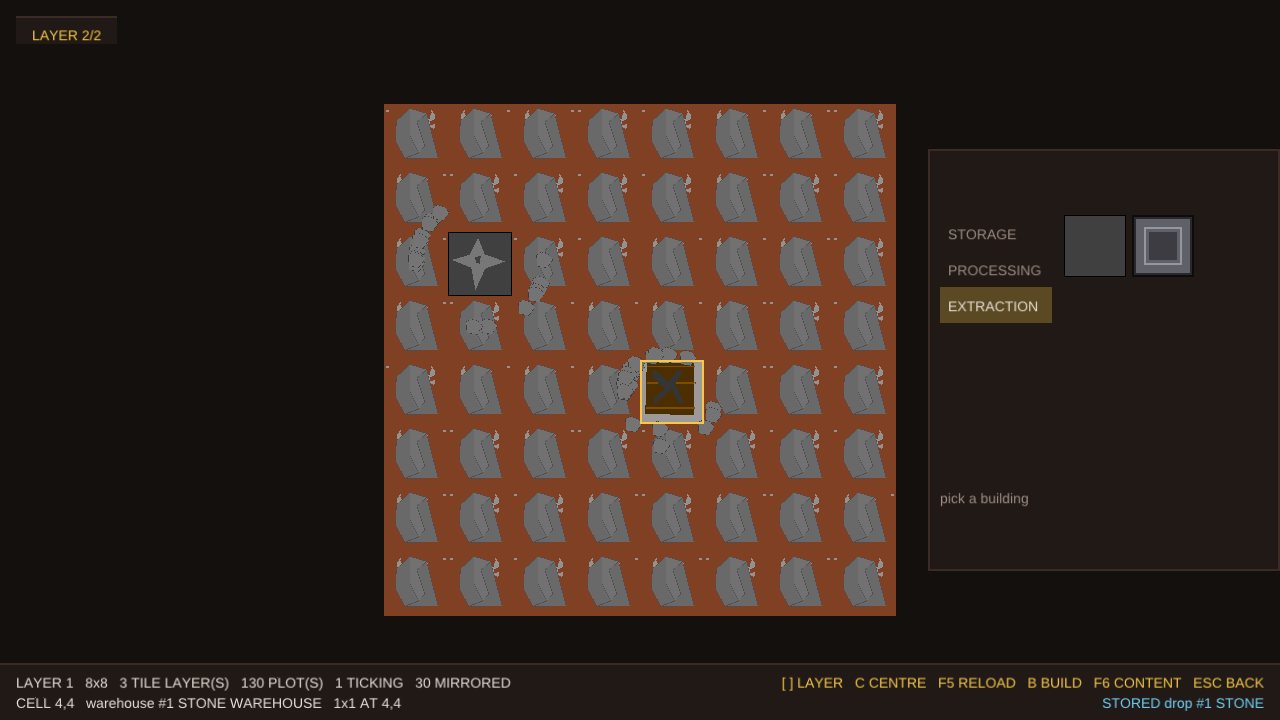
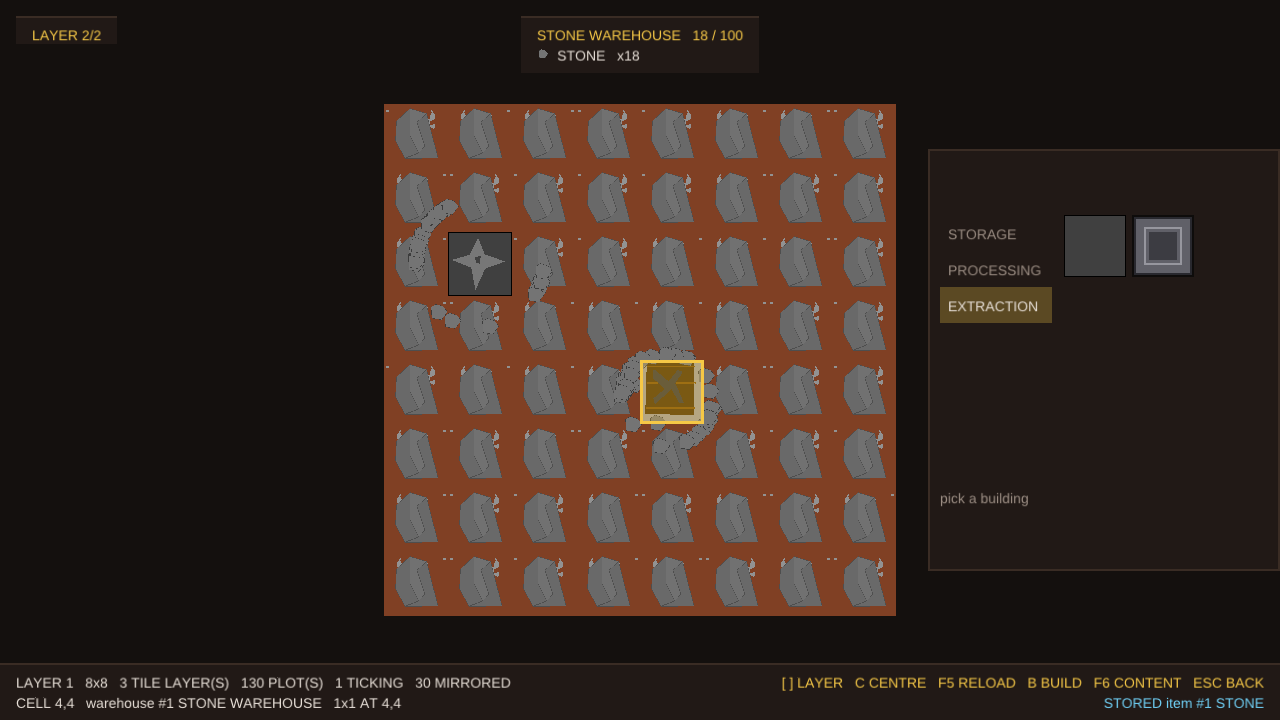
a drop is made out of the item its ore drops: same name, same picture, same id, and no drop table

diff --git a/tile2d/games/mine/tests/test_content_pack.cpp b/tile2d/games/mine/tests/test_content_pack.cpp
@@ -470,9 +470,9 @@ T2D_TEST(the_games_own_content_is_a_pack_that_ships_its_own_art) {
     T2D_CHECK_MSG(report.clean(), "{}", report.first_error());
     T2D_CHECK_EQ(report.base_packs, 1u);
     // One picture per content entry, in the order the pack's files are read - which is sorted, so
-    // drops.ecfg comes first, then drills, floors, items, ores and warehouses. A drill has **two**
+    // drills.ecfg comes first, then floors, items, ores and warehouses. A drill has **two**
     // pictures (docs/GAME_DESIGN.md section 1.38), and they come out next to each other, base then top.
-    T2D_REQUIRE(report.images.size() == 7u);
+    T2D_REQUIRE(report.images.size() == 6u);
     T2D_CHECK(report.images[0].ok);
     T2D_CHECK_EQ(report.images[0].kind, ContentKind::Drill);
     T2D_CHECK_EQ(report.images[0].content, std::string("stone"));
@@ -480,23 +480,12 @@ T2D_TEST(the_games_own_content_is_a_pack_that_ships_its_own_art) {
     T2D_CHECK(report.images[0].resolved.find("drill_stone_drill_base.png") != std::string::npos);
     T2D_CHECK_EQ(report.images[1].part, std::string("top"));   // and the top is the second
     T2D_CHECK(report.images[1].resolved.find("drill_stone_drill_top.png") != std::string::npos);
-    T2D_CHECK_EQ(report.images[2].kind, ContentKind::Drop);   // what the ore throws out (1.25)
-    T2D_CHECK_EQ(report.images[2].content, std::string("stone"));
-    T2D_CHECK(report.images[2].resolved.find("item_stone.png") != std::string::npos);
-    T2D_CHECK_EQ(report.images[3].kind, ContentKind::Floor);
-    T2D_CHECK_EQ(report.images[3].content, std::string("dirt"));
-    T2D_CHECK(report.images[3].resolved.find("floor_dirt.png") != std::string::npos);
-    T2D_CHECK_EQ(report.base_images, 7u);
-    T2D_CHECK_EQ(registry.count(ContentKind::Floor), 1u);
-    T2D_CHECK(registry.find(ContentKind::Floor, "dirt") != kNoContent);
-    // The item the designer asked for (docs/GAME_DESIGN.md section 1.23), with the picture the designer
-    // gave it. It is registered as an item and its definition is kept, because something that has to be
-    // shown needs more than a name - and it is **not** a plot: the lookup by kind cannot hand it out.
-    T2D_CHECK_EQ(registry.count(ContentKind::Item), 1u);
-    T2D_CHECK(registry.find(ContentKind::Item, "stone") != kNoContent);
-    T2D_CHECK_EQ(report.images[4].kind, ContentKind::Item);
-    T2D_CHECK_EQ(report.images[4].content, std::string("stone"));
-    T2D_CHECK(report.images[4].resolved.find("item_stone.png") != std::string::npos);
+    T2D_CHECK_EQ(report.images[2].kind, ContentKind::Floor);
+    T2D_CHECK_EQ(report.images[2].content, std::string("dirt"));
+    T2D_CHECK(report.images[2].resolved.find("floor_dirt.png") != std::string::npos);
+    T2D_CHECK_EQ(report.images[3].kind, ContentKind::Item);
+    T2D_CHECK_EQ(report.images[3].content, std::string("stone"));
+    T2D_CHECK(report.images[3].resolved.find("item_stone.png") != std::string::npos);
     T2D_REQUIRE(report.definitions.item_count() == 1u);
     T2D_REQUIRE(report.definitions.find_item("stone") != nullptr);
     T2D_CHECK_EQ(report.definitions.find_item("stone")->image, std::string("art/item_stone.png"));
@@ -506,22 +495,24 @@ T2D_TEST(the_games_own_content_is_a_pack_that_ships_its_own_art) {
     // item share the name "stone" and that is not a clash: ids are handed out per kind.
     T2D_CHECK_EQ(registry.count(ContentKind::Ore), 1u);
     T2D_CHECK(registry.find(ContentKind::Ore, "stone") != kNoContent);
-    T2D_CHECK_EQ(report.images[5].kind, ContentKind::Ore);
-    T2D_CHECK_EQ(report.images[5].content, std::string("stone"));
-    T2D_CHECK(report.images[5].resolved.find("ore_stone.png") != std::string::npos);
+    T2D_CHECK_EQ(report.images[4].kind, ContentKind::Ore);
+    T2D_CHECK_EQ(report.images[4].content, std::string("stone"));
+    T2D_CHECK(report.images[4].resolved.find("ore_stone.png") != std::string::npos);
     // The two numbers that make a drill mine: the ore's hardness and what it drops (§1.26).
     const types::TileDefinition& vein = *report.definitions.find_tile(ContentKind::Ore, "stone");
     T2D_CHECK_EQ(vein.hardness, 1.0f);
     T2D_CHECK_EQ(vein.drop, std::string("stone"));
-    T2D_CHECK(registry.find(ContentKind::Drop, vein.drop) != kNoContent);   // and the drop is there
+    // What it drops is an **item**, and the thing that lands on the ground is made out of it: there is
+    // no drop:: entry to look for (sections 1.23, 1.25).
+    T2D_CHECK(registry.find(ContentKind::Item, vein.drop) != kNoContent);
     // The warehouse the designer asked for (docs/GAME_DESIGN.md section 1.28), with the picture the
     // designer put into the pack themselves: it is a plot - scenery that holds things - and the one
     // number its entry carries is its capacity.
     T2D_CHECK_EQ(registry.count(ContentKind::Warehouse), 1u);
     T2D_CHECK(registry.find(ContentKind::Warehouse, "stone") != kNoContent);
-    T2D_CHECK_EQ(report.images[6].kind, ContentKind::Warehouse);
-    T2D_CHECK_EQ(report.images[6].content, std::string("stone"));
-    T2D_CHECK(report.images[6].resolved.find("capacity_stone_warehouse.png") != std::string::npos);
+    T2D_CHECK_EQ(report.images[5].kind, ContentKind::Warehouse);
+    T2D_CHECK_EQ(report.images[5].content, std::string("stone"));
+    T2D_CHECK(report.images[5].resolved.find("capacity_stone_warehouse.png") != std::string::npos);
     T2D_REQUIRE(report.definitions.find_tile(ContentKind::Warehouse, "stone") != nullptr);
     T2D_CHECK_EQ(report.definitions.find_tile(ContentKind::Warehouse, "stone")->capacity, 100u);
     // The drill the designer asked for ("创建石头钻头，挖掘能力为1,材料10石头"): digging power 1, a base

diff --git a/tile2d/games/mine/tests/test_drills.cpp b/tile2d/games/mine/tests/test_drills.cpp
@@ -54,10 +54,12 @@ struct Fixture {
         return id;
     }
 
-    ContentId add_drop(std::string_view name) {
-        const ContentId id = registry.register_content(ContentKind::Drop, name);
-        DropDefinition definition;
-        definition.kind = ContentKind::Drop;
+    /// What an ore drops is an **item** (docs/GAME_DESIGN.md sections 1.23, 1.25): the thing that lands on
+    /// the ground is made out of it, so this registers the item and nothing else.
+    ContentId add_item(std::string_view name) {
+        const ContentId id = registry.register_content(ContentKind::Item, name);
+        TileDefinition definition;
+        definition.kind = ContentKind::Item;
         definition.name = std::string(name);
         definitions.add(std::move(definition));
         return id;
@@ -82,7 +84,7 @@ struct Rig {
     ContentId chunk = kNoContent;
 
     Rig(f32 hardness, f32 power, std::string drop_name) {
-        chunk = fixture.add_drop("chunk");
+        chunk = fixture.add_item("chunk");
         fixture.add_floor("dirt");
         fixture.add_ore("vein", hardness, std::move(drop_name));
         fixture.add_drill("rig", power);
@@ -141,7 +143,9 @@ T2D_TEST(a_drill_is_an_entity_plot_that_mines_what_is_under_it) {
     T2D_REQUIRE(rig.layer.entity_count() == 1u);
     T2D_CHECK_EQ(rig.drill->produced(), 1u);
     const Entity& first = *rig.layer.entities()[0];
-    T2D_CHECK_EQ(first.kind(), ContentKind::Drop);
+    // The thing on the ground **is** the item its ore drops: same id, same name, same picture
+    // (sections 1.23, 1.25) - which is why carrying it into a warehouse stores the item.
+    T2D_CHECK_EQ(first.kind(), ContentKind::Item);
     T2D_CHECK_EQ(first.id(), rig.chunk);
     T2D_CHECK(first.draggable());   // what it throws out is a drop: the pointer can drag it (types/drop.h)
     // It lands **one cell away at a random angle**: anywhere on the circle around the drill's middle, not
@@ -215,7 +219,7 @@ T2D_TEST(a_drill_with_nothing_to_mine_is_reported_and_idle) {
         fixture.add_floor("dirt");
         fixture.add_ore("vein", 2.0f, "chunk");
         fixture.add_drill("rig", 1.0f);
-        fixture.add_drop("chunk");
+        fixture.add_item("chunk");
         MineLayer layer(0, LayerShape{16, 16, 3}, 1);
         LayerBuildReport report;
         (void)layer.place(fixture.registry, fixture.definitions, at(ContentKind::Floor, "dirt", 0, 4, 4), &report);
@@ -236,7 +240,7 @@ T2D_TEST(a_drill_with_nothing_to_mine_is_reported_and_idle) {
         fixture.add_floor("dirt");
         fixture.add_ore("vein", hardness, std::move(drop_name));
         fixture.add_drill("rig", power);
-        if (power > 0.0f) fixture.add_drop("chunk");
+        if (power > 0.0f) fixture.add_item("chunk");
         MineLayer layer(0, LayerShape{16, 16, 3}, 1);
         LayerBuildReport report;
         (void)layer.place(fixture.registry, fixture.definitions, at(ContentKind::Floor, "dirt", 0, 4, 4), &report);
@@ -250,7 +254,7 @@ T2D_TEST(a_drill_with_nothing_to_mine_is_reported_and_idle) {
     };
     T2D_CHECK(refuses(0.0f, "chunk", 1.0f, "says nothing about its hardness"));
     T2D_CHECK(refuses(2.0f, "", 1.0f, "says nothing about what it drops"));
-    T2D_CHECK(refuses(2.0f, "nothing_like_that", 1.0f, "no drop named 'nothing_like_that' is registered"));
+    T2D_CHECK(refuses(2.0f, "nothing_like_that", 1.0f, "no item named 'nothing_like_that' is registered"));
     // A drill with no power: the ore is fine, the machine is not.
     {
         Fixture fixture;
@@ -316,7 +320,7 @@ T2D_TEST(the_debug_fill_puts_a_drill_on_a_cell_that_has_ore) {
     fixture.add_floor("dirt");
     fixture.add_ore("vein", 2.0f, "chunk");
     fixture.add_drill("rig", 1.0f);
-    fixture.add_drop("chunk");
+    fixture.add_item("chunk");
     MineLayer layer(0, LayerShape{24, 16, 3}, 1);
     LayerBuildReport report;
     (void)layer.place(fixture.registry, fixture.definitions, at(ContentKind::Floor, "dirt", 0, 5, 5), &report);

diff --git a/tile2d/games/mine/src/build_cost.cpp b/tile2d/games/mine/src/build_cost.cpp
@@ -6,24 +6,13 @@ namespace mine {
 
 namespace {
 
-/// What a price is paid in: the **item** of that name and any **drop** of that name.
-///
-/// A drop is what an ore throws out and an item is what a machine makes, a recipe moves and a demand asks
-/// for (docs/GAME_DESIGN.md sections 1.23, 1.25) - and a stone lying on the ground and a stone in a box are
-/// the same stone. A player who dragged a drill's output into the warehouse **has** stone, so a price that
-/// only counted items would tell them they have none: which is exactly the report "the warehouse clearly has
-/// stone in it and it still says stone 0/10". Both kinds are counted, and both are spent.
-constexpr ContentKind kPays[] = {ContentKind::Item, ContentKind::Drop};
-
-/// How much of \p name the stock holds, over both kinds that count as paying for it.
+/// How much of \p name the stock holds. It is an **item** and nothing else: the drop lying on the ground
+/// is made out of the item its ore drops (types/drill.cpp), so a stone carried into a warehouse is the
+/// stone item, and a price counts items (docs/GAME_DESIGN.md sections 1.23, 1.25).
 [[nodiscard]] usize held(const types::Container& stock, const ContentRegistry& registry,
                          std::string_view name) {
-    usize have = 0;
-    for (const ContentKind kind : kPays) {
-        const ContentId id = registry.find(kind, name);
-        if (id != kNoContent) have += stock.count_of(kind, id);
-    }
-    return have;
+    const ContentId id = registry.find(ContentKind::Item, name);
+    return id == kNoContent ? 0 : stock.count_of(ContentKind::Item, id);
 }
 
 } // namespace
@@ -46,14 +35,9 @@ bool can_afford(const types::Container& stock, const ContentRegistry& registry,
 void pay_for(types::Container& stock, const ContentRegistry& registry,
              const std::vector<ContentStack>& materials) {
     for (const ContentStack& stack : materials) {
-        usize left = static_cast<usize>(stack.count);
-        for (const ContentKind kind : kPays) {
-            const ContentId id = registry.find(kind, stack.name);
-            if (id == kNoContent || left == 0) continue;
-            // Items first, then drops: what a machine made goes into the machine before what was picked up
-            // off the floor. can_afford() said the two together are enough, so this cannot come up short.
-            left -= stock.take(kind, id, left);
-        }
+        const ContentId id = registry.find(ContentKind::Item, stack.name);
+        if (id == kNoContent) continue;   // can_afford() would have said no; paying nothing is the safe half
+        (void)stock.take(ContentKind::Item, id, static_cast<usize>(stack.count));
     }
 }
 

diff --git a/tile2d/games/mine/tests/test_world.cpp b/tile2d/games/mine/tests/test_world.cpp
@@ -688,43 +688,5 @@ T2D_TEST(paying_for_a_build_that_cannot_be_paid_for_leaves_the_stock_alone) {
 }
 
 
-T2D_TEST(stone_on_the_ground_pays_for_a_building_like_stone_in_a_box) {
-    // A drill's output dragged into a warehouse is stored as a **drop** - the thing that was lying on the
-    // ground - and an item is what a machine makes (docs/GAME_DESIGN.md sections 1.23, 1.25). A price that
-    // only counted items told the player they had none: "the warehouse clearly has stone in it and it still
-    // says stone 0/10". Both kinds pay, and both are spent.
-    Fixture content;
-    content.add(ContentKind::Warehouse, "bin", /*random_reverse=*/false, /*capacity=*/16);
-    content.add(ContentKind::Item, "stone");
-    content.add(ContentKind::Drop, "stone");
-    const ContentId bin = content.registry.find(ContentKind::Warehouse, "bin");
-    const ContentId drop = content.registry.find(ContentKind::Drop, "stone");
-    T2D_REQUIRE(drop != kNoContent);
-    const TileDefinition* definition = content.definitions.find_tile(ContentKind::Warehouse, "bin");
-    T2D_REQUIRE(definition != nullptr);
-    const std::unique_ptr<SceneTile> plot = make_tile(*definition, bin, 1, GridPos{0, 0});
-    T2D_REQUIRE(plot != nullptr && plot->container() != nullptr);
-    types::Container& stock = *plot->container();
-    T2D_REQUIRE(stock.add(ContentKind::Drop, drop, 10) == 10u);
-
-    const std::vector<ContentStack> price{{std::string("stone"), 10}};
-    std::string missing;
-    T2D_CHECK(can_afford(stock, content.registry, price, &missing));
-    pay_for(stock, content.registry, price);
-    T2D_CHECK_EQ(stock.count_of(ContentKind::Drop, drop), 0u);
-    T2D_CHECK_EQ(stock.total(), 0u);
-    T2D_CHECK_FALSE(can_afford(stock, content.registry, price, &missing));
-    T2D_CHECK_MSG(missing.find("stone") != std::string::npos, "{}", missing);
-
-    // Half and half works too: five items and five drops are ten stone, and the items go first.
-    const ContentId item = content.registry.find(ContentKind::Item, "stone");
-    T2D_REQUIRE(stock.add(ContentKind::Item, item, 5) == 5u);
-    T2D_REQUIRE(stock.add(ContentKind::Drop, drop, 5) == 5u);
-    T2D_CHECK(can_afford(stock, content.registry, price, &missing));
-    pay_for(stock, content.registry, price);
-    T2D_CHECK_EQ(stock.count_of(ContentKind::Item, item), 0u);
-    T2D_CHECK_EQ(stock.count_of(ContentKind::Drop, drop), 0u);
-}
-
 T2D_TEST_MAIN
 

diff --git a/tile2d/games/mine/src/world.cpp b/tile2d/games/mine/src/world.cpp
@@ -174,9 +174,12 @@ void MineLayer::configure_drill(types::Drill& drill, const ContentRegistry& regi
                            ore_name, what));
         return;
     }
-    const ContentId drop = registry.find(ContentKind::Drop, definition->drop);
+    // What it drops is an **item** (docs/GAME_DESIGN.md sections 1.23, 1.25): the thing that lands on the
+    // ground is **made out of that item** - same name, same picture, same id - rather than declared a
+    // second time in a table of its own. A drop:: table is not what says what a thing is; the item is.
+    const ContentId drop = registry.find(ContentKind::Item, definition->drop);
     if (drop == kNoContent) {
-        refuse(std::format("layer {}: the ore '{}' under {} drops '{}', and no drop named '{}' is registered",
+        refuse(std::format("layer {}: the ore '{}' under {} drops '{}', and no item named '{}' is registered",
                            index_, ore_name, what, definition->drop, definition->drop));
         return;
     }

diff --git a/tile2d/games/mine/src/app.cpp b/tile2d/games/mine/src/app.cpp
@@ -1263,9 +1263,11 @@ const types::SceneTile* MineApp::selected_plot() const {
 void MineApp::select_at(GridPos cell) {
     const types::SceneTile* plot = world_.layer().top_plot_at(cell);
     if (plot == nullptr || plot->container() == nullptr) {
-        // A double click on scenery, or on ground, selects nothing: there is nothing to show, and a panel
-        // that stayed up would be describing something else (types/click.h's rule, said again).
-        clear_selection();
+        // A double click on scenery, or on ground, selects nothing - and it does **not** put down what is
+        // selected either: the designer asked for the selection to stay when the pointer looks elsewhere,
+        // and the way to put a plot down is to double click **it** (docs/GAME_DESIGN.md section 1.31).
+        // Clearing here would make a stray double click on the floor lose the warehouse the player is
+        // building out of.
         return;
     }
     selected_cell_ = cell;

diff --git a/tile2d/games/mine/src/types/drill.cpp b/tile2d/games/mine/src/types/drill.cpp
@@ -85,7 +85,10 @@ void Drill::throw_one() {
         t2d::clamp(static_cast<f32>(anchor().y) + 0.5f + std::sin(angle), 0.0f,
                    static_cast<f32>(layer->height())),
     };
-    layer->adopt(std::make_unique<Drop>(ContentKind::Drop, job_.drop_id, where));
+    // The thing on the ground **is** the item its ore drops: same name, same picture, same id - made out
+    // of the item rather than declared beside it (docs/GAME_DESIGN.md sections 1.23, 1.25). That is also
+    // why carrying one into a warehouse stores the item, and why a price can be paid with it.
+    layer->adopt(std::make_unique<Drop>(ContentKind::Item, job_.drop_id, where));
     ++thrown_;
 }
 

diff --git a/tile2d/docs/GAME_DESIGN.md b/tile2d/docs/GAME_DESIGN.md
@@ -1410,26 +1410,33 @@ place_block:: / placement1:: / x:111... subobject:: / container:: / items:["aaa"
   的两条分支；层构建时对钻头强制、报告里点名）；套件 **31 个测试**全绿（release / debug / asan / tsan / server-only
   31/31、no-renderer 11/11、Ore 13/13）。
 
-### M2 交付状态（二十七）：仓库里明明有石头却说 stone 0/10（已修，含单测）
+### M2 交付状态（二十八）：掉落物按物品生成（已落地，含单测与端到端实测）
 
-设计者报的："仓库里明明有石头建造时还是提示石头0/10"。
+设计者的两句话："drop定义里应该直接对应相关的item"、"不对，我们应该让程序直接按照item生成对应的drop"。
 
-* **根因**：**掉落物与物品是两种内容**。钻头丢出来的石头是 `drop:: stone::`（§1.25：躺在地上、能被拖走的
-  东西），而 `item:: stone::` 是"机器产出、配方进出、需求点名"的东西（§1.23）。把地上的石头**拖进仓库**，仓库里
-  存的就是一条 **drop**；而 `can_afford()` 只按 `ContentKind::Item` 去数——于是"箱子里有石头"和"你一块石头都没有"
-  同时成立。上一轮加的日志正好把这件事照出来：`world: it holds 10 of 100`、`STORED drop #1 STONE`。
-* **修法**：**能付账的是同名的那两样**——`can_afford()` 把 `item::` 与 `drop::` 里同名的都算上，`pay_for()` 两样都扣
-  （先扣物品、再扣掉落物）。地上的石头和箱子里的石头本来就是同一块石头，玩家拖进去的东西当然应该能拿来建造
-  （`mine/build_cost.h` 的注释里写了这一条）。
-* **单测**：`test_world` 19 → **20 用例 / 189 → 197 断言**，新增
-  `stone_on_the_ground_pays_for_a_building_like_stone_in_a_box`：箱子里放 **10 个 drop** → `can_afford` 成立 →
-  `pay_for` 扣光 → 再问就付不起且理由里写 `stone`；再放 **5 个物品 + 5 个掉落物** → 一样付得起，且**物品先被扣**。
-* **实测**：真机跑一遍——建第一台石头钻头（用箱子里的 10 个物品付账）→ 它开始挖 → 把地上的石头**拖进仓库**，日志
-  `world: STORED drop #1 STONE` ×9～12 条 → 仓库里现在装的是**掉落物**（正是设计者那种情形）。
-* **没做完的部分（说清楚）**：我想把"用拖进来的石头再建一台"整条链路也**脚本化跑通**，但自动拖拽很难命中那些只有
-  三分之一格大的掉落物（每轮 300 次拖拽只命中 9～12 次），所以那一步**没有跑完**；"掉落物能付账"这件事由上面那条
-  单测钉住，不是靠截图。
-* **验证**：套件 **32 个测试全绿**。
+* **模型改了**：不再有 `drop::` 表。**掉落物是按物品生成出来的**——矿物的 `drop:` 现在写的是**物品**的名字
+  （`ore:: stone::` 的 `drop:"stone"` 指的是 `item:: stone::`），钻头丢出去的那件东西**就是那个物品**：同名、同图、
+  同一个 id（`types/drill.cpp` 里 `Drop` 的 kind 传的是 `ContentKind::Item`）。`content/drops.ecfg` 删掉了。
+* **这正好把上一轮那个 bug 从根上解决**：拖进仓库的是**物品**（不是另一种内容），所以价格数得到它——上一轮我在
+  `can_afford()` 里"同名物品与掉落物都算"的补丁**撤掉了**，价格只数物品（`mine/build_cost.cpp` 的注释写了为什么）。
+* **顺带修的一处**：双击**空地**（没有容器的地方）不再清掉当前选中——设计者要的是"点别处不要取消选中"，把选中的东西
+  放下的方式是**双击它自己**。清掉会让玩家在建造途中因为一次误双击丢掉正在用的仓库。
+* **端到端实测**（真机无头，一条链跑通）：
+
+```
+world: selected warehouse #1 at 4,4          ← 选中装着 10 个石头物品的仓库
+world: it holds 10 of 100 (1 slot(s))
+world: built stone at 1,2                    ← 第一台石头钻头，用那 10 个物品付账
+world: STORED item #1 STONE                  ← 它挖出来的石头被拖进仓库，×18 条，全部是 item
+world: built stone at 2,5                    ← 第二台钻头，用拖进来的那些石头付账
+```
+* **单测**：`test_drills` 的夹具改成注册**物品**（`add_item`）并断言"丢出去的那件东西 kind 是 Item"；
+  `test_content_pack` 6 张图 / 4 个地块定义（`drops.ecfg` 没了），并钉住"矿石的 drop 名字能在**物品**表里找到"；
+  `test_world` 删掉那条已经过时的"掉落物也算钱"用例（它的前提没有了）。套件 **32 个测试全绿**。
+* **还没做的**：`ContentKind::Drop` 这个种类与它的定义器（`read_drop_definition` / `drop_definitions` / `make_drop`）
+  现在**没有内容在用了**，成了死代码——删它要动内容加载器、调试填充与若干测试，留给下一轮（先记在这里，不装作没有）。
+
+![拖进来的石头现在是物品，第二台钻头就是用它们建的](../games/mine/docs/images/world_drop_paid_built_en.png)
 
 ### M1 验收标准（已满足）
 
@@ -1652,6 +1659,14 @@ place_block:: / placement1:: / x:111... subobject:: / container:: / items:["aaa"
 
 | 版本 | 变更 |
 |---|---|
+| M2.31 | **掉落物按物品生成**（设计者更正 §1.25 的模型）：**没有 `drop::` 表了**——矿物的 `drop:` 写的是**物品**名，
+  钻头丢出去的那件东西**就是那个物品**（同名、同图、同一个 id，`Drop` 的 kind 传 `ContentKind::Item`），`content/drops.ecfg`
+  删除。这从根上解决了"仓库里明明有石头却说 0/10"：拖进仓库的是**物品**，价格数得到；上一轮"同名物品与掉落物都算"的
+  补丁因此撤掉，价格只数物品。顺带：双击**空地**不再清掉选中（放下的方式是双击它自己），免得建造途中一次误双击丢掉仓库。
+  **端到端实测**：选中 10 石头的仓库 → `built stone at 1,2` → 挖出的石头拖进仓库（`STORED item #1 STONE` ×18）→
+  **`built stone at 2,5`**（第二台用拖进来的石头付账）。**单测**：`test_drills` 夹具改注册物品并断言丢出物的 kind 是 Item、
+  `test_content_pack` 6 张图 / 4 个地块定义且钉住"drop 名字在物品表里找得到"、`test_world` 删掉过时用例。
+  **没做**：`ContentKind::Drop` 与它的定义器成了死代码，留待下一轮删。套件 **32 个测试**全绿 |
 | M2.30 | **修：仓库里明明有石头却说 stone 0/10**（设计者报的 bug）。根因：**掉落物与物品是两种内容**——钻头丢出的
   石头是 `drop:: stone::`（§1.25），`item:: stone::` 才是"机器产出、配方进出"的那一样（§1.23）；把地上的石头拖进仓库
   存的是 **drop**，而 `can_afford()` 只数 `ContentKind::Item`，于是"箱子里有石头"与"一块都没有"同时成立（上一轮加的

diff --git a/tile2d/docs/TABLES.md b/tile2d/docs/TABLES.md
@@ -241,7 +241,7 @@ GCC 在 `-O3` 下给 `std::__format` 的 sink 吐出了 253 字节与 744 字节
 | **本体代码进表并运行** | `mine_core` 的 `registry.cpp` 编成表：注册两个 item（id 1、2）、重复注册 id 不变，`game_probe()` = 110 |
 | **模组覆盖本体表里的函数** | 加一张模组表后 `game_probe()` = **112**，报告 1 条覆盖（`game_bonus`，game_mod ← mine），`find_previous()` = 5 |
 | **表回调宿主** | 表里没定义的 `host_service` 与 `t2d::log_enabled` 由宿主解析（后者超距，走了桩） |
-| **整块本体进表，可执行文件变启动器** | 表由工具链编（`codetab build`）：release **930 节 / 2934 符号 / 11316 重定位 / 1.44 MiB**；debug **6589 / 22378 / 30526 / 4.21 MiB**。启动器合并后调用 `mine_game_main`，游戏照常跑（窗口、Vulkan、内容、多语言） |
+| **整块本体进表，可执行文件变启动器** | 表由工具链编（`codetab build`）：release **929 节 / 2932 符号 / 11311 重定位 / 1.44 MiB**；debug **6588 / 22376 / 30519 / 4.21 MiB**。启动器合并后调用 `mine_game_main`，游戏照常跑（窗口、Vulkan、内容、多语言） |
 | **构建时统一 ABI** | 本体表与启动器记录同指纹（`bdcb9b070ab30e78`）；`-O0`/`-O2`/`-O3 -DNDEBUG` 三种构建指纹相同、完全合并；另一个 `std::string` ABI、头文件改动、CPU 缺特性三种情形**拒绝并指名**（§5.6、[`ABI.md`](ABI.md)） |
 | **一份定义两个函数体：构建期折叠，加载期报告** | 同一个 vague linkage 函数在 `-O3` 下可以有两份不同机器码（实测 253 / 744 字节）。`codetab build` 先链接，表里只剩一份（9 个函数少掉 55 份死拷贝，渲染逐像素相同）；`codetab pack` 原样打包的仍会在加载时报出来，被丢掉的拷贝连同它的重定位一起丢，越界即构建失败 |
 | **模组表端到端** | `--table mods/demo_mod/mod.codetab`：`mine_game_banner` 被 `demo_mod` 顶掉（报告 1 条覆盖），游戏自己的调用改道，输出从 `Mine, unmodified` 变成 `Mine, modded` |

diff --git a/tile2d/README.md b/tile2d/README.md
@@ -360,7 +360,6 @@ it is not in the palette.
         floors.ecfg          floor:: dirt::   with image:"art/floor_dirt.png"
         items.ecfg           item:: stone::   with image:"art/item_stone.png"
         ores.ecfg            ore:: stone::    with image:"art/ore_stone.png"
-        drops.ecfg           drop:: stone::   what the stone ore throws out (image: art/item_stone.png)
         drills.ecfg          drill:: stone::  base + top, dig_power:1, costs 10 stone (building:: extraction)
         warehouses.ecfg      warehouse:: stone::   capacity:100
         layers.ecfg          layer:: entrance::  100x100, full_flash dirt, scatter stone 20..35
@@ -506,7 +505,7 @@ links the framework with `--whole-archive` and exports its own symbols.
 
     mine-0.1.0/
         mine_game            the launcher: the engine, and the table runtime
-        mine.codetab         the game: 930 sections, 2 934 symbols, 11 316 relocations (release)
+        mine.codetab         the game: 929 sections, 2 932 symbols, 11 311 relocations (release)
         engine.abi           what the launcher itself was compiled as - the reference a mod is measured against
         engine.api           the published surface, and the version it belongs to
         assets/text/ui.ecfg  the interface strings
